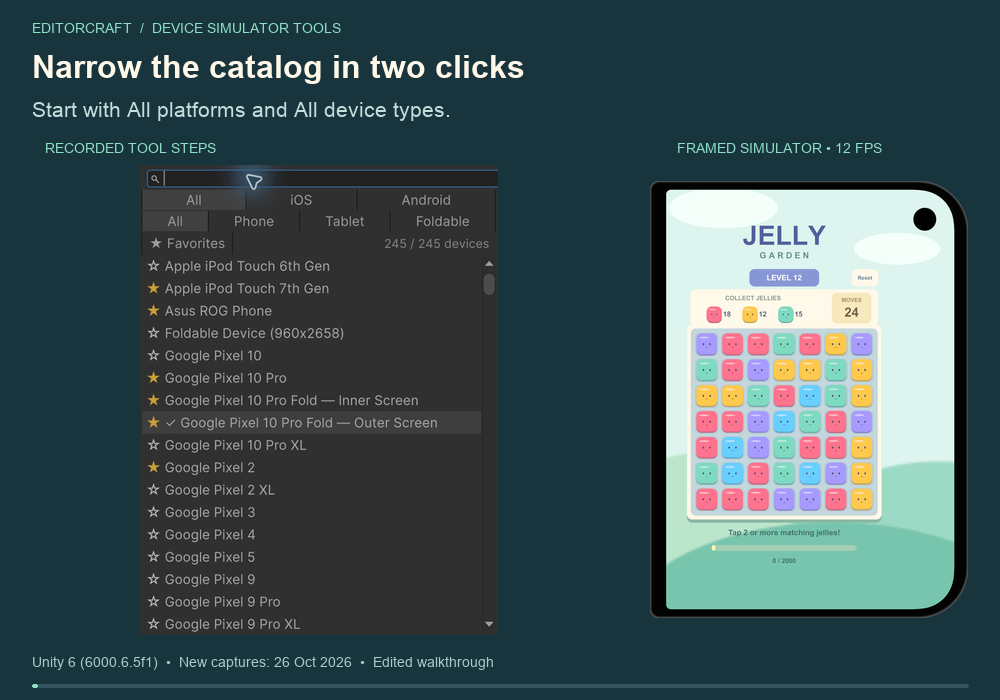
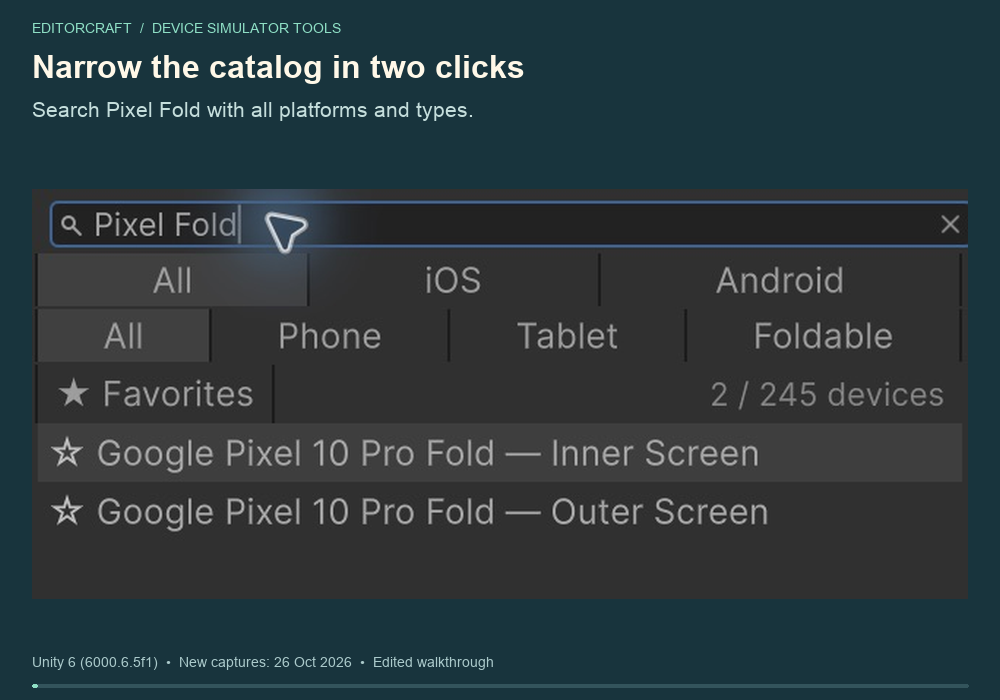
Fix device showcase consistency and Jelly Garden tile gravity

diff --git a/Documentation~/assets/demos/favorite-gallery/index.html b/Documentation~/assets/demos/favorite-gallery/index.html
@@ -1,1 +1,1 @@
-<!doctype html><meta charset='utf-8'><title>Simulator captures</title><style>body{background:#282828;color:white;font:14px sans-serif}main{display:flex;flex-wrap:wrap;gap:16px}figure{margin:0;width:280px}img{max-width:280px;max-height:560px}figcaption{overflow-wrap:anywhere}</style><h1>Favorite device captures</h1><p>Sequential snapshots, not frozen game state or automatic UI pass/fail.</p><main><figure><img src='000_Google_Pixel_10_Pro_Fold___Inner_Screen_Portrait.png'><figcaption>000_Google_Pixel_10_Pro_Fold___Inner_Screen_Portrait.png</figcaption></figure><figure><img src='001_Google_Pixel_10_Pro_Fold___Outer_Screen_Portrait.png'><figcaption>001_Google_Pixel_10_Pro_Fold___Outer_Screen_Portrait.png</figcaption></figure></main>
+<!doctype html><meta charset='utf-8'><title>Simulator captures</title><style>body{background:#282828;color:white;font:14px sans-serif}main{display:flex;flex-wrap:wrap;gap:16px}figure{margin:0;width:280px}img{max-width:280px;max-height:560px}figcaption{overflow-wrap:anywhere}</style><h1>Favorite device captures</h1><p>Sequential snapshots, not frozen game state or automatic UI pass/fail.</p><main><figure><img src='000_iPhone_Duo___Outer_Screen_Portrait.png'><figcaption>000_iPhone_Duo___Outer_Screen_Portrait.png</figcaption></figure><figure><img src='001_iPhone_Duo___Inner_Screen_Portrait.png'><figcaption>001_iPhone_Duo___Inner_Screen_Portrait.png</figcaption></figure><figure><img src='002_Google_Pixel_10_Pro_Fold___Inner_Screen_Portrait.png'><figcaption>002_Google_Pixel_10_Pro_Fold___Inner_Screen_Portrait.png</figcaption></figure><figure><img src='003_Google_Pixel_10_Pro_Fold___Outer_Screen_Portrait.png'><figcaption>003_Google_Pixel_10_Pro_Fold___Outer_Screen_Portrait.png</figcaption></figure><figure><img src='004_iPhone_16_Portrait.png'><figcaption>004_iPhone_16_Portrait.png</figcaption></figure></main>

diff --git a/Samples~/Jelly Garden/JellyGarden.cs b/Samples~/Jelly Garden/JellyGarden.cs
@@ -148,7 +148,13 @@ namespace EditorCraft.Samples
         }
         void DrawTile(int x,int y) {
             var r=Jelly(board,cells[x,y],new Vector2((x-3)*96,(3-y)*96+3),78);tiles[x,y]=r;r.name="Jelly "+x+","+y;
-            var image=r.GetComponent<Image>();image.raycastTarget=true;var b=r.gameObject.AddComponent<Button>();b.targetGraphic=image;b.onClick.AddListener(()=>Tap(x,y));
+            var image=r.GetComponent<Image>();image.raycastTarget=true;var b=r.gameObject.AddComponent<Button>();b.targetGraphic=image;BindTile(x,y);
+        }
+        void BindTile(int x,int y) {
+            var tile=tiles[x,y];tile.name="Jelly "+x+","+y;
+            tile.SetAsLastSibling(); // Falling tiles must stay above every slot background.
+            var button=tile.GetComponent<Button>();button.onClick.RemoveAllListeners();
+            button.onClick.AddListener(()=>Tap(x,y));
         }
         List<Vector2Int> Group(int x,int y) {
             var found=new List<Vector2Int>(); var pending=new Queue<Vector2Int>();pending.Enqueue(new Vector2Int(x,y));
@@ -176,6 +182,7 @@ namespace EditorCraft.Samples
                 for(int y=Rows-1;y>=0;y--)if(cells[x,y]>=0){cells[x,bottom]=cells[x,y];tiles[x,bottom]=tiles[x,y];bottom--;}
                 for(int y=bottom;y>=0;y--){cells[x,y]=random.Next(colors.Length);DrawTile(x,y);tiles[x,y].anchoredPosition+=Vector2.up*300;}
             }
+            for(int y=0;y<Rows;y++)for(int x=0;x<Columns;x++)BindTile(x,y);
             var starts=new Vector2[Columns,Rows];for(int y=0;y<Rows;y++)for(int x=0;x<Columns;x++)starts[x,y]=tiles[x,y].anchoredPosition;
             for(float t=0;t<1;t+=Time.unscaledDeltaTime*2.6f){for(int y=0;y<Rows;y++)for(int x=0;x<Columns;x++)tiles[x,y].anchoredPosition=Vector2.Lerp(starts[x,y],new Vector2((x-3)*96,(3-y)*96+3),1-Mathf.Pow(1-t,3));yield return null;}
             for(int y=0;y<Rows;y++)for(int x=0;x<Columns;x++)tiles[x,y].anchoredPosition=new Vector2((x-3)*96,(3-y)*96+3);

diff --git a/Tools~/install.py b/Tools~/install.py
@@ -8,7 +8,7 @@ import sys
 import tempfile
 
 PACKAGE = "com.daghandemirci.device-simulator-tools"
-DEFAULT_URL = "https://github.com/dghn/editorcraft-device-simulator-tools.git#v0.4.0"
+DEFAULT_URL = "https://github.com/dghn/editorcraft-device-simulator-tools.git#v0.4.1"
 
 
 def unique_keys(pairs):

diff --git a/README.md b/README.md
@@ -22,7 +22,7 @@ Tested tool versions: **Unity 2022.3.62f2** and **Unity 6000.6.5f1**.
 In **Package Manager → + → Install package from Git URL**, paste:
 
 ```text
-https://github.com/dghn/editorcraft-device-simulator-tools.git#v0.4.0
+https://github.com/dghn/editorcraft-device-simulator-tools.git#v0.4.1
 ```
 
 Open **Window → General → Device Simulator → Control Panel → EditorCraft Device Tools**.
@@ -35,11 +35,11 @@ needed. UPM resolves the Unity device catalog, Newtonsoft JSON and uGUI dependen
 **Working from this checkout?** Install its `package.json` with **Install package
 from disk** in an existing Unity project. This repository is a UPM package, not a
 standalone Unity project. The optional Jelly Garden sample and refreshed iPhone Duo showcase are included
-in **v0.4.0**.
+in **v0.4.1**.
 
 [Agent-friendly installer](Documentation~/AGENT_INSTALL.md) ·
 [Installation verification](Documentation~/INSTALL_VERIFICATION.md) ·
-[Released v0.4.0](https://github.com/dghn/editorcraft-device-simulator-tools/releases/tag/v0.4.0)
+[Released v0.4.1](https://github.com/dghn/editorcraft-device-simulator-tools/releases/tag/v0.4.1)
 
 ## Play with Jelly Garden
 
@@ -70,7 +70,10 @@ the screens you test most. Favorites, search and filters persist locally. Arrow 
 navigate the list; Enter selects. Maintained profiles take precedence over duplicate
 bundled names without modifying Unity's catalog.
 
-![Device search walkthrough with the playable puzzle](Documentation~/assets/demos/search.gif)
+Duo leads the tour: outer → inner → landscape → Pixel Fold inner/outer → iPhone 16 → Duo.
+The picker and Simulator are recorded in the same session; the visible device changes with the selection.
+
+![Real device switching with matching Simulator frames](Documentation~/assets/demos/search.gif)
 
 <details>
 <summary>Platform/type filtering and favorites</summary>
@@ -133,10 +136,11 @@ restores the original device and orientation and retains completed captures.
 
 [Clean PNG](Documentation~/assets/demos/puzzle-clean.png) ·
 [Framed PNG](Documentation~/assets/demos/puzzle-framed.png) ·
-[Sample audit HTML](Documentation~/assets/demos/puzzle-audit/index.html) ·
-[Favorite capture HTML](Documentation~/assets/demos/favorite-gallery/index.html)
+[Sample audit HTML](https://dghn.github.io/editorcraft-device-simulator-tools/puzzle-audit/) ·
+[Favorite capture HTML](https://dghn.github.io/editorcraft-device-simulator-tools/favorite-gallery/)
 
-Download the HTML and neighboring images to open locally; GitHub displays HTML source.
+These links open the rendered reports directly in your browser, including their PNGs.
+[All report previews](https://dghn.github.io/editorcraft-device-simulator-tools/)
 
 ## Device coverage
 
@@ -169,10 +173,11 @@ were verified in **6000.6.5f1** on **2026-10-26**.
 - Captures are sequential while the game runs, not a frozen replay or automated visual test.
 - Foldables simulate one screen at a time, not hinge motion.
 
-Each new GIF is **15 seconds / 180 frames / 12 fps playback**. Gameplay and screen
-switching use actual framed Simulator capture sequences. The other tours combine newly
-captured tool steps with separately recorded gameplay, clearly labelled in-frame;
-they are edited walkthroughs, not continuous desktop recordings.
+The device tour shows **39 native captures over 31.2 seconds**, with actual device
+selection followed by the matching Simulator window. Gameplay and Duo screen switching
+use **15 seconds / 180 frames / 12 fps playback** from real framed exports. The other
+walkthroughs show recorded UI steps on their own. Playback timing is edited; no
+independent gameplay is placed beside the picker.
 
 [Compatibility evidence](Documentation~/PLUGIN_COMPATIBILITY.md) ·
 [Capture provenance](Documentation~/SHOWCASE.md#recording-notes)

diff --git a/Documentation~/AGENT_INSTALL.md b/Documentation~/AGENT_INSTALL.md
@@ -6,7 +6,7 @@ Run this from the **target Unity project root** (the folder containing `Assets`,
 available on Windows. Close Unity while editing its manifest, then reopen it.
 
 ```sh
-python3 -c 'import os, pathlib, subprocess, sys, tempfile; url=os.environ.get("EDITORCRAFT_GIT_URL", "https://github.com/dghn/editorcraft-device-simulator-tools.git"); tmp=tempfile.TemporaryDirectory(prefix="editorcraft-"); repo=pathlib.Path(tmp.name)/"package"; subprocess.run(["git", "clone", "--depth", "1", "--branch", "v0.4.0", url, str(repo)], check=True); subprocess.run([sys.executable, str(repo/"Tools~"/"install.py"), "--project", os.getcwd(), "--url", url+"#v0.4.0"], check=True)'
+python3 -c 'import os, pathlib, subprocess, sys, tempfile; url=os.environ.get("EDITORCRAFT_GIT_URL", "https://github.com/dghn/editorcraft-device-simulator-tools.git"); tmp=tempfile.TemporaryDirectory(prefix="editorcraft-"); repo=pathlib.Path(tmp.name)/"package"; subprocess.run(["git", "clone", "--depth", "1", "--branch", "v0.4.1", url, str(repo)], check=True); subprocess.run([sys.executable, str(repo/"Tools~"/"install.py"), "--project", os.getcwd(), "--url", url+"#v0.4.1"], check=True)'
 ```
 
 This clones the installer into a temporary directory and registers the Git dependency
@@ -22,12 +22,12 @@ For a dedicated SSH alias, set `EDITORCRAFT_GIT_URL` to
 command. In Bash/zsh you can prefix the command with
 `EDITORCRAFT_GIT_URL=ssh://git@github-dghn/dghn/editorcraft-device-simulator-tools.git`.
 In PowerShell set `$env:EDITORCRAFT_GIT_URL` first. The value is the repository URL
-without a `#ref`; this command uses `v0.4.0`.
+without a `#ref`; this command uses `v0.4.1`.
 
 If the repository is already cloned, use the installer directly:
 
 ```sh
-python3 "/path/to/editorcraft-device-simulator-tools/Tools~/install.py" --project "/path/to/UnityProject" --url "https://github.com/dghn/editorcraft-device-simulator-tools.git#v0.4.0"
+python3 "/path/to/editorcraft-device-simulator-tools/Tools~/install.py" --project "/path/to/UnityProject" --url "https://github.com/dghn/editorcraft-device-simulator-tools.git#v0.4.1"
 ```
 
 Coding agents: run the command only in the intended project, inspect the manifest

diff --git a/Documentation~/SHOWCASE.md b/Documentation~/SHOWCASE.md
@@ -47,15 +47,16 @@ GIFs use Duo; the remaining devices demonstrate additional catalog coverage.
 
 ## Recording notes
 
-The seven refreshed GIFs contain **180 frames over 15 seconds**, played at **12 fps**.
-Gameplay and screen switching come from successive real Unity Simulator
-captures through the tool's framed PNG export path, preserving the actual device
-surround and camera/notch masks. Playback timing is edited; no intermediate game
-frames are synthesized.
+The main device tour is a chronological recording of actual Unity windows: Duo
+outer → Duo inner → landscape → Pixel Fold inner/outer → iPhone 16 → Duo.
+It contains 39 native captures over 31.2 seconds; pauses are shortened for readability.
+The picker popup appears as its own step, followed by the actual selected device.
+Device controls, names and surrounds stay together in the whole-window captures.
 
-Search, filter, favorite, export and comparison tours combine fresh desktop UI captures
-with a separately recorded gameplay pane. Both panes are labelled. They are instructional
-edits, not continuous desktop video; the tool actions and game moves are not synchronized.
+Gameplay and Duo screen switching use 180 real framed exports over 15 seconds
+at 12 fps playback. Timing is edited; no intermediate game frames are synthesized.
+Filter, favorite, export and comparison tours show recorded UI steps on their own,
+without unrelated gameplay alongside them.
 
 The native gallery screenshot is a real window capture. The sample report contains 11
 snapshots on iPhone 16 and Pixel Fold inner/outer profiles. Every snapshot checked 329
@@ -64,7 +65,7 @@ outside the selected audit root. Geometry checks do not assess usability or read
 
 [Media metadata](assets/demos/recordings.json) ·
 [Actual report](assets/demos/puzzle-audit/report.json) ·
-[HTML and original PNGs](assets/demos/puzzle-audit/index.html)
+[HTML and original PNGs](https://dghn.github.io/editorcraft-device-simulator-tools/puzzle-audit/)
 
 The old intentional-overflow fixture remains in `assets/demos/ui-audit-report` as
 historical regression evidence; it is not the new puzzle showcase.

diff --git a/.github/release-notes/v0.4.1.md b/.github/release-notes/v0.4.1.md
@@ -1,0 +1,25 @@
+The device tour now shows the actual selected phone in the same Simulator window: **iPhone Duo → Pixel Fold → iPhone 16 → Duo**. The HTML report links open rendered previews on GitHub Pages.
+
+- Replace the mismatched picker/gameplay split with 39 chronological native captures over 31.2 seconds, including Duo inner/outer screens and landscape layout.
+- Remove independent gameplay panes from the filter, favorites, export and comparison walkthroughs. Keep genuine device surrounds and camera cutouts.
+- Fix Jelly Garden gravity: falling tiles stay above slot backgrounds, and buttons target their new cell after moving.
+- Refresh the 180-frame Duo gameplay and screen-switch recordings with the corrected sample.
+
+[Open report previews](https://dghn.github.io/editorcraft-device-simulator-tools/) · [Feature tour](https://github.com/dghn/editorcraft-device-simulator-tools#the-workflow)
+
+## Install or update
+
+```text
+https://github.com/dghn/editorcraft-device-simulator-tools.git#v0.4.1
+```
+
+Reimport the Jelly Garden sample to receive its fixes.
+
+## Validation
+
+- Unity 6000.6.5f1: warning-free compilation and native pointer gameplay on Duo; real profile switching to Pixel Fold and iPhone 16.
+- Two actual Button.onClick regression moves, including a relocated tile: expected scores, 49 unique tiles, current coordinate binding, and every tile above the slot backgrounds.
+- Static package checks and all seven installer tests.
+- Report/image link validation and GIF device/frame review.
+
+Playback is edited for readability. The native tour is sampled window captures, not continuous desktop video. The existing 11-orientation audit is a geometric snapshot report; it does not assess readability. No fresh Unity 2022.3 sample replay or clean Git-install test is claimed for this patch.

diff --git a/CHANGELOG.md b/CHANGELOG.md
@@ -1,5 +1,11 @@
 # Changelog
 
+## 0.4.1 — 2026-10-26
+
+- Replace the mismatched split-pane search demo with a chronological, whole-window tour: iPhone Duo, Pixel Fold, iPhone 16, then Duo again.
+- Show UI walkthroughs without unrelated gameplay and host the actual HTML reports on GitHub Pages.
+- Keep falling Jelly Garden tiles above slot backgrounds and update their click targets after gravity.
+
 ## 0.4.0 — 2026-10-26
 
 - Add the optional Jelly Garden playable puzzle sample with portrait, foldable and landscape layouts.
